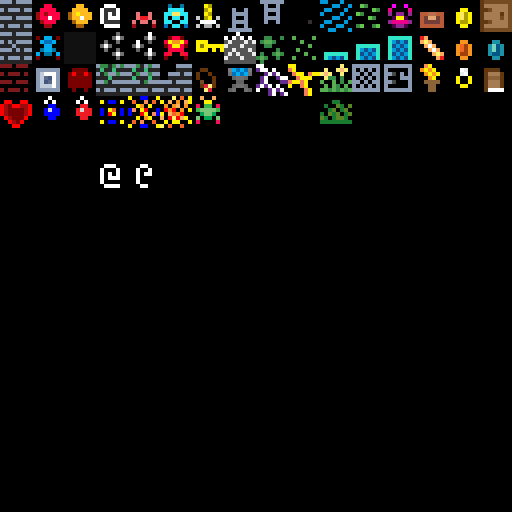
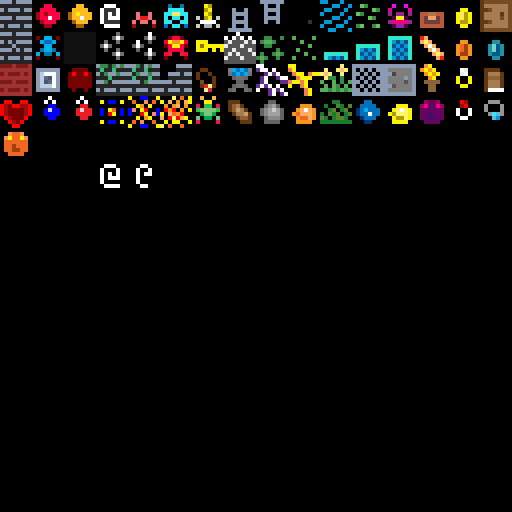
Add two new enemies

diff --git a/main.cpp b/main.cpp
@@ -214,6 +214,7 @@ void render_title_screen(double delta_time)
 {
 		render_graphic(LOGO_PATH.c_str(), 0, 20, true, true, 2);
 
+		sprite_sheet->drawSprite(renderer, ORANGE_BLOB, WINDOW_WIDTH / 2 - 256, 325);
 		sprite_sheet->drawSprite(renderer, CRIMSON_SHADOW, WINDOW_WIDTH / 2 - 192, 325);
 		sprite_sheet->drawSprite(renderer, SPIDER, WINDOW_WIDTH / 2 - 128, 325);
 		sprite_sheet->drawSprite(renderer, LURCHER, WINDOW_WIDTH / 2 - 64, 325);
@@ -221,6 +222,7 @@ void render_title_screen(double delta_time)
 		sprite_sheet->drawSprite(renderer, CRAB, WINDOW_WIDTH / 2 + 64, 325);
 		sprite_sheet->drawSprite(renderer, FIRE_WALKER, WINDOW_WIDTH / 2 + 128, 325);
 		sprite_sheet->drawSprite(renderer, MANTIS, WINDOW_WIDTH / 2 + 192, 325);
+		sprite_sheet->drawSprite(renderer, PURPLE_BLOB, WINDOW_WIDTH / 2 + 256, 325);
 
 		render_graphic(START_GAME_PATH.c_str(), 0, 215, true, true, 2);
 		render_graphic(CREDITS_PATH.c_str(), 0, 300, true, true, 2);
@@ -283,11 +285,13 @@ void render_game(double delta_time)
 										{
 												int enemy_id = 0;
 
-												if (elem.id == 50) enemy_id = SPIDER;
-												else if (elem.id == 51)enemy_id = LURCHER;
-												else if (elem.id == 52)enemy_id = CRAB;
-												else if (elem.id == 53)enemy_id = BUG;
-												else if (elem.id == 54)enemy_id = FIRE_WALKER;
+												if (elem.id == (int)EntitySubType::Spider) enemy_id = SPIDER;
+												else if (elem.id == (int)EntitySubType::Lurcher)enemy_id = LURCHER;
+												else if (elem.id == (int)EntitySubType::Crab)enemy_id = CRAB;
+												else if (elem.id == (int)EntitySubType::Bug)enemy_id = BUG;
+												else if (elem.id == (int)EntitySubType::Fire_Walker)enemy_id = FIRE_WALKER;
+												else if (elem.id == (int)EntitySubType::Crimson_Shadow)enemy_id = CRIMSON_SHADOW;
+												else if (elem.id == (int)EntitySubType::Purple_Blob)enemy_id = PURPLE_BLOB;
 
 												auto enemy_stat_component = game->find_component<StatComponent>(elem.components);
 

diff --git a/SpriteSheet.cpp b/SpriteSheet.cpp
@@ -56,13 +56,16 @@ SpriteSheet::SpriteSheet(SDL_Renderer* renderer, const char* path, int sw, int s
 		sprites[DOOR] = { 15 * sprite_width, 0, sprite_width, sprite_height };
 		sprites[WALL_SECRET_DOOR] = { 0, 1 * sprite_height, sprite_width, sprite_height };
 		sprites[BUG] = { sprite_width * 1, 1 * sprite_height, sprite_width, sprite_height };
-		sprites[FIRE_WALKER] = { 5 * sprite_width, sprite_height, sprite_width, sprite_height };
+		sprites[FIRE_WALKER] = { sprite_width * 5, sprite_height, sprite_width, sprite_height };
 		sprites[HIDDEN] = { sprite_width * 2, 1 * sprite_height, sprite_width, sprite_height };
-		sprites[HEART] = { 0, 3 * sprite_height, sprite_width, sprite_height };
-		sprites[CRIMSON_SHADOW] = { sprite_width * 2, 2 * sprite_height, sprite_width, sprite_height };
-		sprites[WALL_WITH_GRASS_1] = { sprite_width * 3, 2 * sprite_height, sprite_width, sprite_height };
-		sprites[WALL_WITH_GRASS_2] = { sprite_width * 4, 2 * sprite_height, sprite_width, sprite_height };
-		sprites[MANTIS] = { sprite_width * 6, 3 * sprite_height, sprite_width, sprite_height };
+		sprites[HEART] = { 0, sprite_height * 3, sprite_width, sprite_height };
+		sprites[CRIMSON_SHADOW] = { sprite_width * 2, sprite_height * 2, sprite_width, sprite_height };
+		sprites[WALL_WITH_GRASS_1] = { sprite_width * 3, sprite_height * 2, sprite_width, sprite_height };
+		sprites[WALL_WITH_GRASS_2] = { sprite_width * 4, sprite_height * 2, sprite_width, sprite_height };
+		sprites[MANTIS] = { sprite_width * 6, sprite_height * 3, sprite_width, sprite_height };
+		sprites[PURPLE_BLOB] = { sprite_width * 13, sprite_height * 3, sprite_width, sprite_height };
+		sprites[PURPLE_BLOB] = { sprite_width * 13, sprite_height * 3, sprite_width, sprite_height };
+		sprites[ORANGE_BLOB] = { 0, sprite_height * 4, sprite_width, sprite_height };
 }
 
 void SpriteSheet::drawSprite(SDL_Renderer* renderer, int sprite_id, int x, int y)

diff --git a/Game.cpp b/Game.cpp
@@ -59,13 +59,16 @@ Game::Game()
 		SpawnEntities(coins, NUMBER_OF_COINS_ON_MAP, EntityType::Pickup, EntitySubType::Coin);
 		SpawnEntities(health_gems, NUMBER_OF_HEALTH_GEMS_ON_MAP, EntityType::Pickup, EntitySubType::Health_Gem);
 
-		int num_enemies_for_each_type = NUMBER_OF_ENEMIES_ON_MAP / 5;
+		int num_enemies_for_each_type = NUMBER_OF_ENEMIES_ON_MAP / 7;
 
 		SpawnEntities(enemies, num_enemies_for_each_type, EntityType::Enemy, EntitySubType::Spider);
 		SpawnEntities(enemies, num_enemies_for_each_type, EntityType::Enemy, EntitySubType::Lurcher);
 		SpawnEntities(enemies, num_enemies_for_each_type, EntityType::Enemy, EntitySubType::Crab);
 		SpawnEntities(enemies, num_enemies_for_each_type, EntityType::Enemy, EntitySubType::Bug);
 		SpawnEntities(enemies, num_enemies_for_each_type, EntityType::Enemy, EntitySubType::Fire_Walker);
+		SpawnEntities(enemies, num_enemies_for_each_type, EntityType::Enemy, EntitySubType::Crimson_Shadow);
+		SpawnEntities(enemies, num_enemies_for_each_type, EntityType::Enemy, EntitySubType::Purple_Blob);
+		SpawnEntities(enemies, num_enemies_for_each_type, EntityType::Enemy, EntitySubType::Orange_Blob);
 
 		golden_candle = {
 				GenerateRandomPoint(),
@@ -323,6 +326,9 @@ void Game::SpawnEntity(std::shared_ptr<std::vector<Entity>> entity, EntityType e
 				else if (entitySubType == EntitySubType::Crab) { health = 40; attack = 2; }
 				else if (entitySubType == EntitySubType::Bug) { health = 50; attack = 2; }
 				else if (entitySubType == EntitySubType::Fire_Walker) { health = 75; attack = 4; }
+				else if (entitySubType == EntitySubType::Crimson_Shadow) { health = 85; attack = 5; }
+				else if (entitySubType == EntitySubType::Purple_Blob) { health = 95; attack = 6; }
+				else if (entitySubType == EntitySubType::Orange_Blob) { health = 100; attack = 7; }
 
 				components->push_back(std::make_shared<StatComponent>(health, attack));
 		}

diff --git a/SpriteSheet.hpp b/SpriteSheet.hpp
@@ -32,7 +32,10 @@
 
 #include "Common.hpp"
 
-const int NUM_SPRITES = 25;
+// FIXME: Defining new sprites is a pain in the ass and makes no sense, need to
+//			  fix this!
+
+const int NUM_SPRITES = 27;
 
 enum Sprites {
 		WALL = 0,
@@ -59,7 +62,9 @@ enum Sprites {
 		CRIMSON_SHADOW = 21,
 		WALL_WITH_GRASS_1 = 22,
 		WALL_WITH_GRASS_2 = 23,
-		MANTIS = 24
+		MANTIS = 24,
+		PURPLE_BLOB = 25,
+		ORANGE_BLOB = 26
 };
 
 struct MetaSprite

diff --git a/Game.hpp b/Game.hpp
@@ -63,7 +63,10 @@ enum class EntitySubType
 		Lurcher = 51,
 		Crab = 52,
 		Bug = 53,
-		Fire_Walker = 54
+		Fire_Walker = 54,
+		Crimson_Shadow = 55,
+		Purple_Blob = 56,
+		Orange_Blob = 57
 };
 
 enum class WhoAmI

diff --git a/README.md b/README.md
@@ -91,6 +91,7 @@ link with the game. I don't want to remove this as I plan to use Lua
 ![Lua](screenshots/lua.png)
 
 ![Lua](screenshots/lua2.png)
+
 ## License
 
 MIT
